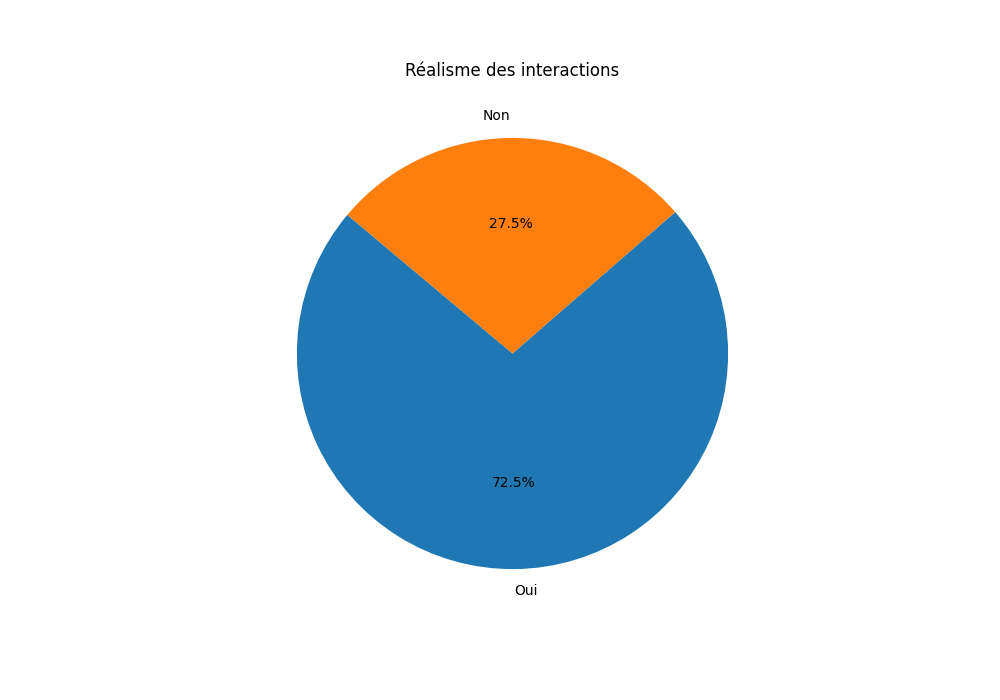
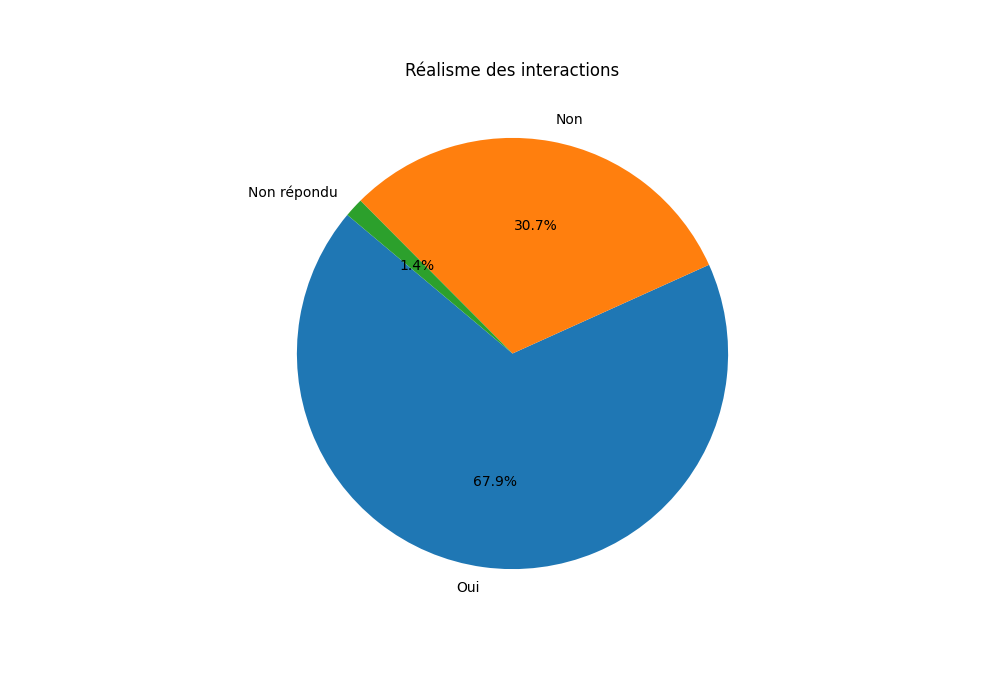
nouvelles évaluations + maj rapport statistique évaluation

diff --git a/sondages/conversations/output/rapport_statistique.md b/sondages/conversations/output/rapport_statistique.md
@@ -1,7 +1,7 @@
 # Rapport Statistique
 
-## Nombre total de conversations : 16
-## Nombre total d'échanges : 80
+## Nombre total de conversations : 28
+## Nombre total d'échanges : 140
 
 ## Graphiques
 
@@ -15,115 +15,118 @@
 
 ## Statistiques pour Échange 1
 ### Note pertinence question
-- **Moyenne**: 4.9375
+- **Moyenne**: 4.821428571428571
 - **Médiane**: 5.0
-- **Écart-type**: 0.25
+- **Écart-type**: 0.39002102778747977
 - **Min**: 4.0
 - **Max**: 5.0
-- **Nombre de valeurs**: 16
+- **Nombre de valeurs**: 28
 ### Note pertinence réponse
-- **Moyenne**: 4.1875
+- **Moyenne**: 4.392857142857143
 - **Médiane**: 5.0
-- **Écart-type**: 1.1672617529928753
+- **Écart-type**: 0.9940297973880048
 - **Min**: 2
 - **Max**: 5
-- **Nombre de valeurs**: 16
+- **Nombre de valeurs**: 28
 ### Réalisme interaction
-- **Oui**: 87.5%
-- **Non**: 12.5%
+- **Oui**: 78.57%
+- **Non**: 17.86%
+- **Non répondu**: 3.57%
 
 ## Statistiques pour Échange 2
 ### Note pertinence question
-- **Moyenne**: 4.5625
+- **Moyenne**: 4.714285714285714
 - **Médiane**: 5.0
-- **Écart-type**: 0.7274384280931732
+- **Écart-type**: 0.5998236072282915
 - **Min**: 3.0
 - **Max**: 5.0
-- **Nombre de valeurs**: 16
+- **Nombre de valeurs**: 28
 ### Note pertinence réponse
-- **Moyenne**: 4.25
-- **Médiane**: 4.5
-- **Écart-type**: 0.8563488385776752
+- **Moyenne**: 4.357142857142857
+- **Médiane**: 5.0
+- **Écart-type**: 0.8261595987094035
 - **Min**: 3
 - **Max**: 5
-- **Nombre de valeurs**: 16
+- **Nombre de valeurs**: 28
 ### Réalisme interaction
-- **Oui**: 81.25%
-- **Non**: 18.75%
+- **Oui**: 75.0%
+- **Non**: 21.43%
+- **Non répondu**: 3.57%
 
 ## Statistiques pour Échange 3
 ### Note pertinence question
-- **Moyenne**: 4.3125
+- **Moyenne**: 4.428571428571429
 - **Médiane**: 5.0
-- **Écart-type**: 1.1954775893619531
+- **Écart-type**: 0.959497222838566
 - **Min**: 1.0
 - **Max**: 5.0
-- **Nombre de valeurs**: 16
+- **Nombre de valeurs**: 28
 ### Note pertinence réponse
-- **Moyenne**: 3.4375
-- **Médiane**: 3.5
-- **Écart-type**: 1.4127396551853895
+- **Moyenne**: 3.7142857142857144
+- **Médiane**: 4.0
+- **Écart-type**: 1.2128064441201947
 - **Min**: 1
 - **Max**: 5
-- **Nombre de valeurs**: 16
+- **Nombre de valeurs**: 28
 ### Réalisme interaction
-- **Oui**: 75.0%
-- **Non**: 25.0%
+- **Oui**: 71.43%
+- **Non**: 28.57%
 
 ## Statistiques pour Échange 4
 ### Note pertinence question
-- **Moyenne**: 4.133333333333334
-- **Médiane**: 5.0
-- **Écart-type**: 1.1872336794093274
+- **Moyenne**: 4.148148148148148
+- **Médiane**: 4.0
+- **Écart-type**: 1.0635102872347455
 - **Min**: 2.0
 - **Max**: 5.0
-- **Nombre de valeurs**: 15
+- **Nombre de valeurs**: 27
 ### Note pertinence réponse
-- **Moyenne**: 4.125
+- **Moyenne**: 3.892857142857143
 - **Médiane**: 4.0
-- **Écart-type**: 0.9574271077563381
-- **Min**: 2
+- **Écart-type**: 1.1333099904225385
+- **Min**: 1
 - **Max**: 5
-- **Nombre de valeurs**: 16
+- **Nombre de valeurs**: 28
 ### Réalisme interaction
-- **Oui**: 62.5%
-- **Non**: 37.5%
+- **Oui**: 60.71%
+- **Non**: 39.29%
 
 ## Statistiques pour Échange 5
 ### Note pertinence question
-- **Moyenne**: 4.4375
+- **Moyenne**: 4.25
 - **Médiane**: 5.0
-- **Écart-type**: 0.8139410298049853
+- **Écart-type**: 0.8871510790372952
 - **Min**: 3.0
 - **Max**: 5.0
-- **Nombre de valeurs**: 16
+- **Nombre de valeurs**: 28
 ### Note pertinence réponse
-- **Moyenne**: 3.5625
+- **Moyenne**: 3.5714285714285716
 - **Médiane**: 3.5
-- **Écart-type**: 1.3647344063956182
+- **Écart-type**: 1.2889436222642408
 - **Min**: 1
 - **Max**: 5
-- **Nombre de valeurs**: 16
+- **Nombre de valeurs**: 28
 ### Réalisme interaction
-- **Oui**: 56.25%
-- **Non**: 43.75%
+- **Oui**: 53.57%
+- **Non**: 46.43%
 
 ## Statistiques pour Global
 ### Note pertinence question
-- **Moyenne**: 4.481012658227848
+- **Moyenne**: 4.474820143884892
 - **Médiane**: 5.0
-- **Écart-type**: 0.9179235135678746
+- **Écart-type**: 0.8455418916918168
 - **Min**: 1.0
 - **Max**: 5.0
-- **Nombre de valeurs**: 79
+- **Nombre de valeurs**: 139
 ### Note pertinence réponse
-- **Moyenne**: 3.9125
+- **Moyenne**: 3.9857142857142858
 - **Médiane**: 4.0
-- **Écart-type**: 1.1927391090588424
+- **Écart-type**: 1.1378745444604783
 - **Min**: 1
 - **Max**: 5
-- **Nombre de valeurs**: 80
+- **Nombre de valeurs**: 140
 ### Réalisme interaction
-- **Oui**: 72.5%
-- **Non**: 27.5%
+- **Oui**: 67.86%
+- **Non**: 30.71%
+- **Non répondu**: 1.43%
 
